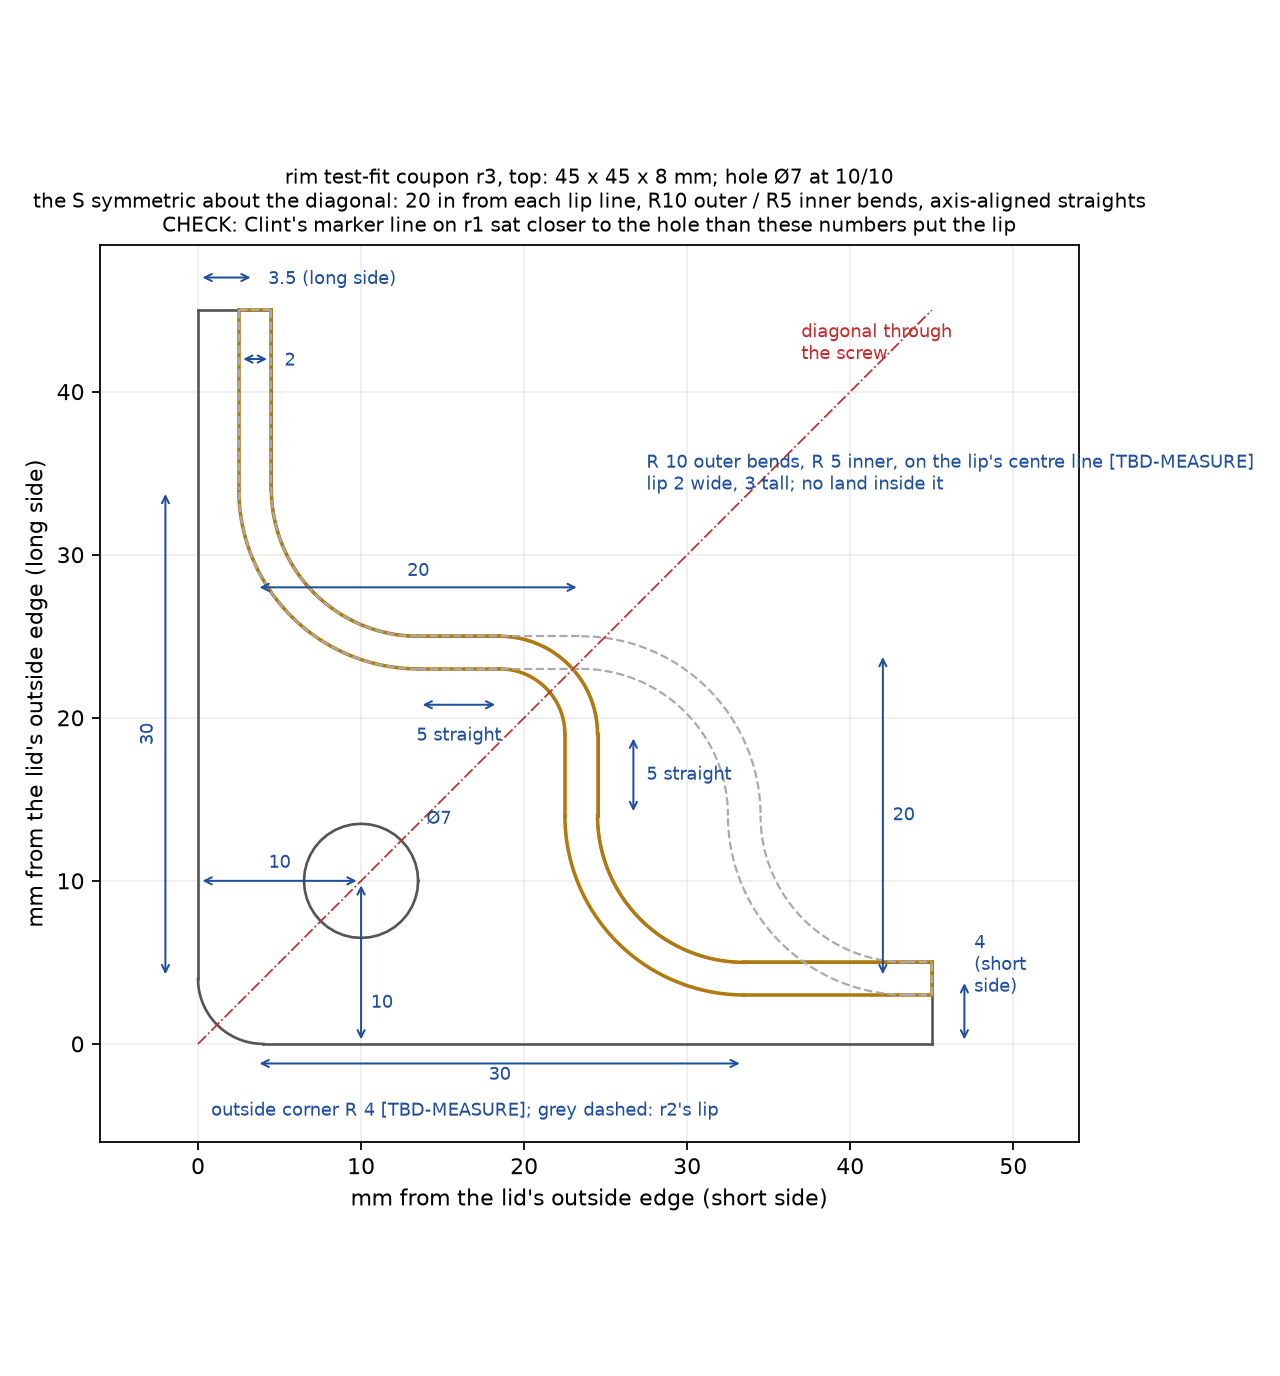
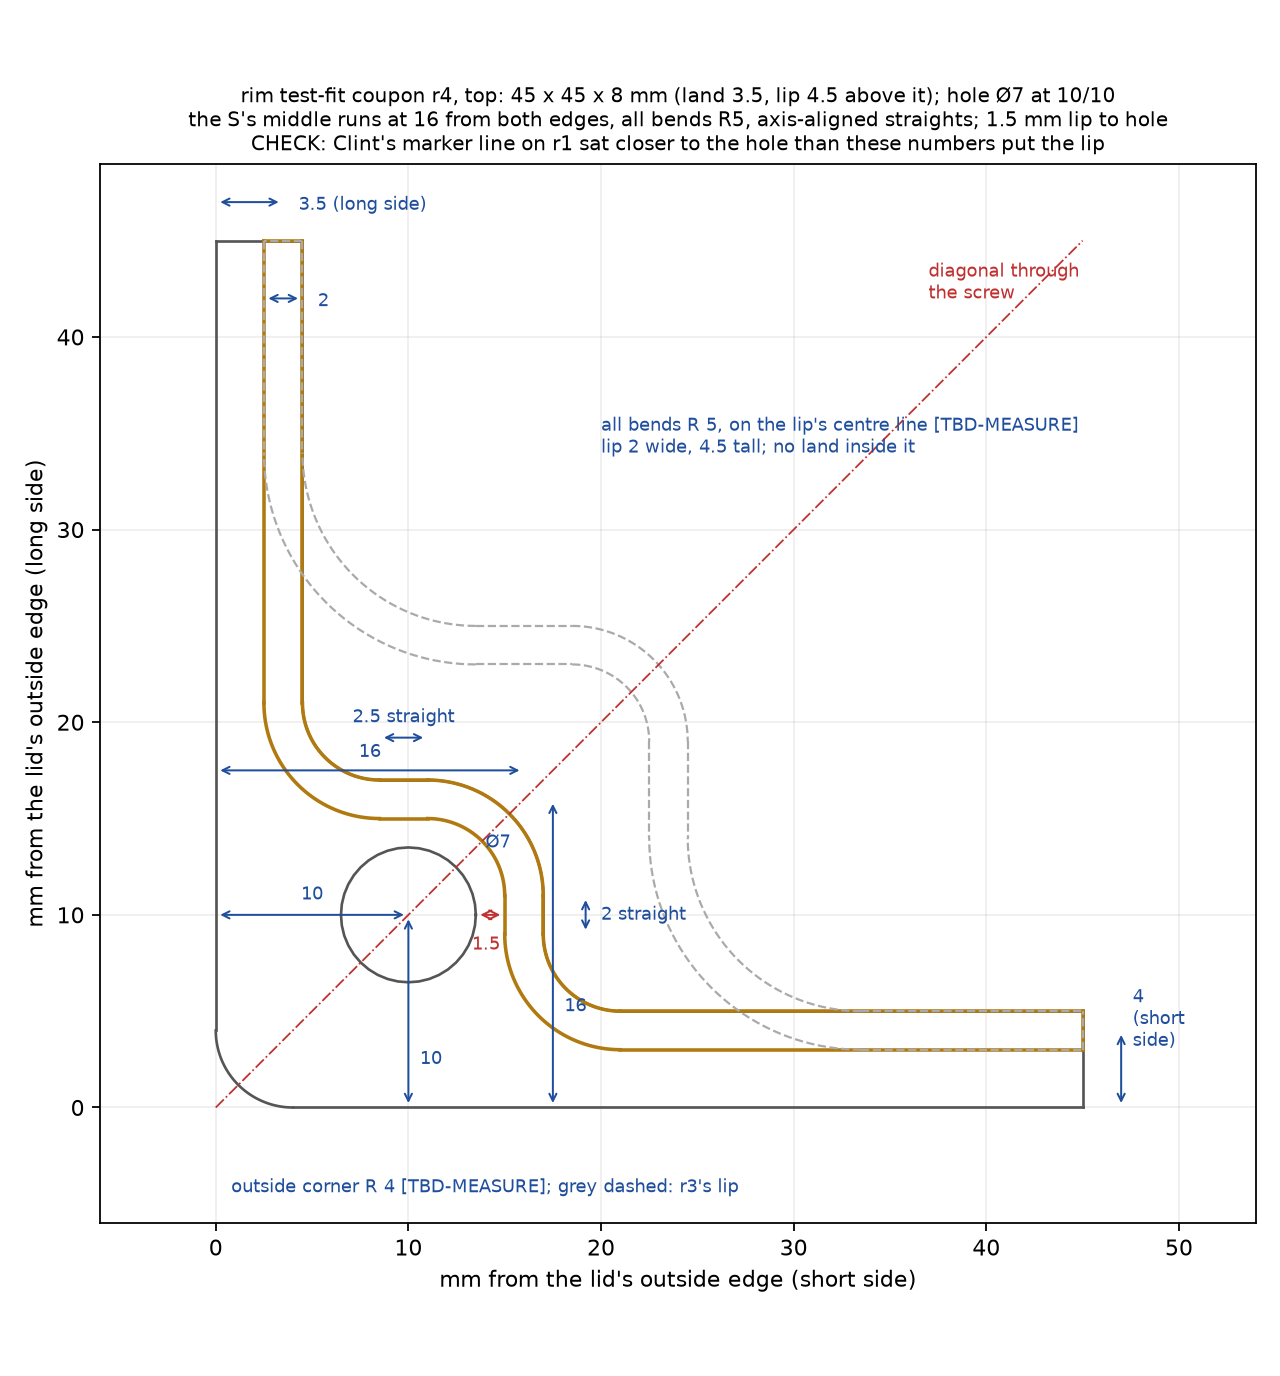
hardware: TX rim test-fit coupon r4 (S at 16 from the edges, R5 bends, lowered land)
From Clint's r3 fit. The S's middle runs move to 16 mm from both outside edges, the largest
move that keeps 1.5 mm of material between the lip and the 7 mm hole at 10/10. All four
bends are R5, with 2.5 and 2.0 mm axis-aligned straights. The land outside the lip is
lowered to 3.5 mm and the lip stands 4.5 above it; the overall height stays 8. The top view
ghosts r3. The full base's rim follows, and the STL gate stays closed.

diff --git a/hardware/tx-stack-r1/sources.py b/hardware/tx-stack-r1/sources.py
@@ -124,11 +124,11 @@ D = {
     "gasket": (1.0, "allowance off the closed depth for the lid's O-ring and fit", "assumed until M17", "TBD"),
     "lid_rim": ((3.0, 3.0, 3.0), "#905 lid rim, outside to inside: plastic wall, O-ring channel (white O-ring in it), plastic wall: a 9 mm land; the O-ring path curves in round the four corner bosses", "Clint's photo and sketch of the lid, 2026-11-10 (photo-8525 lid-up.jpg)", "sourced"),
     "lid_boss": ((22.0, 21.0, 3.0), "#905 lid corner screw boss: along the long side x along the short side (from the outside edges), wall outside the screw hole", "Clint's photo and sketch of the lid, 2026-11-10 (photo-8525 lid-up.jpg)", "sourced"),
-    "rim_tongue": ((2.0, 3.0, 4.0, 3.5), "the base's sealing lip: width, height above the land, centre-line offset from the lid's outside edge on the short sides, and on the long sides; it follows the lid channel's S-curve round each corner boss; the land ends at its inner face", "height 3 mm: Clint (the original base's lip). Offsets: r1 had both at 4.5 (the channel's centre by the sketch); Clint's printed test fit of coupon r1, 2026-11-10 (photo-8533, via the coordinator): the lip moves out 0.5 mm on the short side (4.0) and 1.0 mm on the long side (3.5). Width 2.0 leaves 0.5 mm a side in the 3 mm channel", "derived"),
+    "rim_tongue": ((2.0, 4.5, 4.0, 3.5), "the base's sealing lip: width, height above the land, centre-line offset from the lid's outside edge on the short sides, and on the long sides; it follows the lid channel's S-curve round each corner boss; the land ends at its inner face", "height 4.5 mm above the land: coupon r3 fit (Clint, 2026-11-10): the land outside the lip lowered 1.5 mm, the lip's top unchanged (the original base's lip is 3 mm, Clint). Offsets: r1 had both at 4.5 (the channel's centre by the sketch); Clint's printed test fit of coupon r1, 2026-11-10 (photo-8533, via the coordinator): the lip moves out 0.5 mm on the short side (4.0) and 1.0 mm on the long side (3.5). Width 2.0 leaves 0.5 mm a side in the 3 mm channel", "derived"),
     "l1_lid_screw": ((8.0, 0.0, 0.0), "L1: the original lid screw: thread diameter, pitch, length (option a, a printed thread to match)", "Clint, 2026-11-10 (photo-8528 rim.jpg and notes, via the coordinator): the original base's corner holes are large moulded threads, about 8 mm (coarse plastic thread in the photo); pitch and length not measured", "TBD"),
     "lid_screw_opt": ("b", "lid screws: (a) a printed thread matching the original screw; (b) M4 stainless screws with washers through the lid's 8 mm holes into M4 heat-set inserts", "layout choice (recommended b: brass inserts survive the lid coming off many times, a printed PETG thread wears; the original screw is not needed)", "derived"),
-    "seal_curve_r": ((10.0, 5.0), "radii of the S-curve's bends round each corner boss, on the lip's centre line: the two outer bends (where it leaves the straight legs), the inner bend (round the hole); each middle run keeps an axis-aligned straight between its bends", "Clint, 2026-11-10 (via the coordinator): outer R10 (his estimate); inner R5 so each 20 mm middle run has a 5 mm straight, every bend tangent, every straight parallel to an edge", "TBD"),
-    "seal_s": ((20.0, 20.0), "the S-curve round each corner boss, lip centre line to lip centre line: the segment along the short side sits this far in from the short-side lip line, the segment along the long side this far in from the long-side lip line (symmetric about the corner's diagonal through the screw)", "Clint's printed test fit, 2026-11-10 (photo-8533, via the coordinator): the S is symmetric about the corner diagonal and its middle sits 20 mm in from each straight lip line; it then leaves each straight 30 mm from the other side's lip line (his 30). r2 read it as 20 x 30. Clint's marker line on r1 sat closer to the hole: check", "sourced"),
+    "seal_curve_r": ((5.0, 5.0), "radii of the S-curve's bends round each corner boss, on the lip's centre line: the two outer bends (where it leaves the straight legs), the inner bend (round the hole); tangent, axis-aligned exits", "Clint, 2026-11-10 (via the coordinator): all the bends about R5", "TBD"),
+    "seal_s": ((12.0, 12.5), "the S-curve round each corner boss, lip centre line to lip centre line: the segment along the short side sits this far in from the short-side lip line, the segment along the long side this far in from the long-side lip line (both at 16 from the outside edges, symmetric about the corner's diagonal through the screw)", "Clint's r3 fit, 2026-11-10 (via the coordinator): the middle runs move toward the corner; the largest move that keeps 1.5 mm of material between the lip and the 7 mm hole at 10/10 puts both at 16 from the edges (r3: 20 in from each lip line)", "sourced"),
     "coupon_bore": (7.0, "the rim coupon's screw hole (the full base keeps the insert's own bore, insert_m4)", "Clint's printed test fit of coupon r1, 2026-11-10 (photo-8533, via the coordinator): 25 % larger than r1's 5.6", "derived"),
     "corner_r_out": (4.0, "the lid's (and the base's) outside corner radius, in plan", "estimated from Clint's photo-8526 at about 13.4 px/mm (about 50 px); measure", "TBD"),
     "coupon_fit": (False, "test-fit coupon (cage.py --coupon): the real lid pressed onto the printed rim corner; the lip in the O-ring along both sides and round the boss's S-curve, the screw hole under the lid's hole", "pending: Clint prints it (about 20 minutes) and fits the lid; set True and sourced when it fits", "TBD"),

diff --git a/hardware/tx-stack-r1/cage/coupon_views.py b/hardware/tx-stack-r1/cage/coupon_views.py
@@ -37,7 +37,7 @@ def top(solid):
         ax.plot(*zip(*ln), color="#555", lw=1.2)
     for ln in outline(solid, land_h + cage.TONGUE_H / 2):
         ax.plot(*zip(*ln), color="#b07a10", lw=1.6)
-    # r2's lip, ghosted under the new one; the corner's diagonal through the screw
+    # r3's lip, ghosted under the new one; the corner's diagonal through the screw
     r1 = dict(cage.COUPON_GHOST)
     old = cage.seal_region(cage.TONGUE_W / 2, 0, 1, **dict(r1)).intersect(
         cq.Workplane("XY").rect(cx, cz, centered=False).extrude(1)).cut(cage.seal_region(-cage.TONGUE_W / 2, -1, 3, **dict(r1)))
@@ -56,23 +56,26 @@ def top(solid):
     ax.text(cl + 0.8, 46.6, f"{cl:g} (long side)", **t)
     ax.annotate("", (cx + 2, 0), (cx + 2, cs), **kw)
     ax.text(cx + 2.6, cs / 2 + 1.2, f"{cs:g}\n(short\nside)", **t)
-    ax.annotate("", (cx - 3, cs), (cx - 3, cs + rise), **kw)
-    ax.text(cx - 2.4, cs + rise / 2, f"{rise:g}", va="center", **t)
-    ax.annotate("", (cl, cs + rise + 4), (cl + run, cs + rise + 4), **kw)
-    ax.text(cl + run / 2, cs + rise + 4.7, f"{run:g}", ha="center", **t)
-    ax.annotate("", (-2, cs), (-2, cs + rise + r), **kw)
-    ax.text(-3.6, cs + (rise + r) / 2, f"{rise + r:g}", rotation=90, va="center", **t)
-    ax.annotate("", (cl, -1.2), (cl + run + r, -1.2), **kw)
-    ax.text(cl + (run + r) / 2, -2.2, f"{run + r:g}", ha="center", **t)
     ax.annotate("", (cl - w / 2, 42), (cl + w / 2, 42), **kw)
     ax.text(cl + w / 2 + 0.8, 41.6, f"{w:g}", **t)
     # the middle runs' straights (between the outer and inner bends), axis-aligned
     st = rise - r - ri
-    ax.annotate("", (cl + r, cs + rise - 3.2), (cl + r + st, cs + rise - 3.2), **kw)
-    ax.text(cl + r + st / 2, cs + rise - 5.4, f"{st:g} straight", ha="center", **t)
+    # the S's middle runs from the outside edges, and the lip-to-hole material
+    ax.annotate("", (0, cs + rise + 1.5), (cl + run, cs + rise + 1.5), **kw)
+    ax.text((cl + run) / 2, cs + rise + 2.2, f"{cl + run:g}", ha="center", **t)
+    ax.annotate("", (cl + run + 1.5, 0), (cl + run + 1.5, cs + rise), **kw)
+    ax.text(cl + run + 2.1, (cs + rise) / 2 - 3, f"{cs + rise:g}", **t)
+    d = S.val("coupon_bore")
+    face = cl + run - w / 2
+    clr = face - (hx + d / 2)
+    ax.annotate("", (hx + d / 2, hz), (face, hz), arrowprops=dict(arrowstyle="<->", color="#c03030", lw=0.9))
+    ax.text(hx + d / 2 - 0.2, hz - 1.8, f"{clr:.1f}", color="#c03030", fontsize=8)
+    sx_ = run - r - ri
+    ax.annotate("", (cl + r, cs + rise + 3.2), (cl + r + sx_, cs + rise + 3.2), **kw)
+    ax.text(cl + r + sx_ / 2, cs + rise + 4.0, f"{sx_:g} straight", ha="center", **t)
     ax.annotate("", (cl + run + 3.2, cs + r), (cl + run + 3.2, cs + r + st), **kw)
     ax.text(cl + run + 4.0, cs + r + st / 2, f"{st:g} straight", va="center", **t)
-    ax.text(cl + run + 4, 34, f"R {r:g} outer bends, R {ri:g} inner, on the lip's centre line [TBD-MEASURE]\nlip {w:g} wide, "
+    ax.text(cl + run + 4, 34, f"all bends R {r:g}, on the lip's centre line [TBD-MEASURE]\nlip {w:g} wide, "
             f"{cage.TONGUE_H:g} tall; no land inside it", **t)
     d = S.val("coupon_bore")
     ax.annotate("", (0, hz), (hx, hz), **kw)
@@ -80,15 +83,15 @@ def top(solid):
     ax.annotate("", (hx, 0), (hx, hz), **kw)
     ax.text(hx + 0.6, hz / 2 - 2.5, f"{hz:g}", va="center", **t)
     ax.text(hx + d / 2 + 0.5, hz + d / 2, f"\u00d8{d:g}", **t)
-    ax.text(0.8, -4.4, f"outside corner R {cage.CORNER_R:g} [TBD-MEASURE]; grey dashed: r2's lip", **t)
+    ax.text(0.8, -4.4, f"outside corner R {cage.CORNER_R:g} [TBD-MEASURE]; grey dashed: r3's lip", **t)
     ax.set_aspect("equal")
     ax.set_xlim(-6, cx + 9)
     ax.set_ylim(-6, cz + 4)
     ax.set_xlabel("mm from the lid's outside edge (short side)")
     ax.set_ylabel("mm from the lid's outside edge (long side)")
-    ax.set_title(f"rim test-fit coupon r3, top: {cx:g} x {cz:g} x {ch:g} mm; hole \u00d8{d:g} at {hx:g}/{hz:g}\n"
-                 f"the S symmetric about the diagonal: 20 in from each lip line, R{r:g} outer / R{ri:g} inner bends, "
-                 f"axis-aligned straights\nCHECK: Clint's marker line on r1 sat closer to the hole than these numbers "
+    ax.set_title(f"rim test-fit coupon r4, top: {cx:g} x {cz:g} x {ch:g} mm (land {ch - cage.TONGUE_H:g}, lip "
+                 f"{cage.TONGUE_H:g} above it); hole \u00d8{d:g} at {hx:g}/{hz:g}\nthe S's middle runs at "
+                 f"{cl + run:g} from both edges, all bends R{r:g}, axis-aligned straights; {clr:.1f} mm lip to hole\nCHECK: Clint's marker line on r1 sat closer to the hole than these numbers "
                  "put the lip", fontsize=9)
     ax.grid(alpha=0.2)
     fig.tight_layout()
@@ -117,7 +120,7 @@ def iso(solid):
     ax.set_box_aspect((cage.COUPON[0], cage.COUPON[1], 12))
     ax.view_init(elev=35, azim=-120)
     ax.set_axis_off()
-    ax.set_title("rim test-fit coupon, iso: r3, the 3 mm lip (gold) on the land, round the corner boss", fontsize=9)
+    ax.set_title("rim test-fit coupon, iso: r4, the lip (gold) 4.5 above the lowered land on the land, round the corner boss", fontsize=9)
     fig.tight_layout()
     fig.savefig(OUT / "rim-coupon-iso.png", dpi=160)
 

diff --git a/hardware/tx-stack-r1/cage/cage.py b/hardware/tx-stack-r1/cage/cage.py
@@ -321,9 +321,9 @@ def coax(arm):
     return pe, yb, zb, ax
 
 
-COUPON = (45.0, 45.0, 8.0)          # the test-fit coupon (r3): one rim corner, outside footprint x height; at least
+COUPON = (45.0, 45.0, 8.0)          # the test-fit coupon (r4): one rim corner, outside footprint x height; at least
 CORNER_R = S.val("corner_r_out")    #   10 mm of straight lip past each outer bend
-COUPON_GHOST = dict(cs=4.0, cl=3.5, rise=20.0, run=30.0, r=10.0)   # r2's lip, ghosted on the drawing
+COUPON_GHOST = dict(cs=4.0, cl=3.5, rise=20.0, run=20.0, r=(10.0, 5.0, 10.0))   # r3's lip, ghosted on the drawing
 
 
 def coupon_seal_points(cs=None, cl=None, rise=None, run=None, far=90.0):
